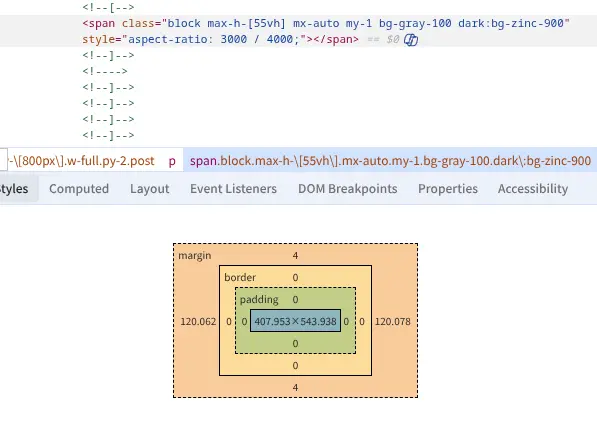
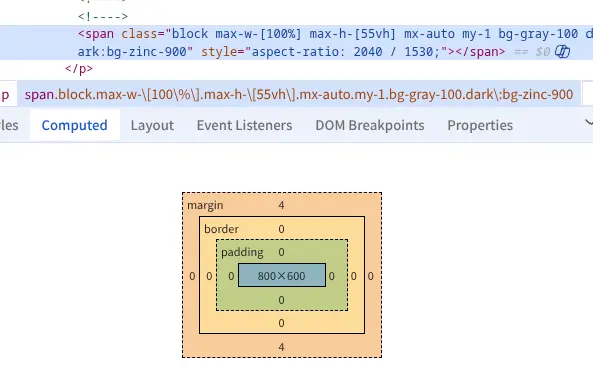
Edit post

diff --git a/markdown/2026/01-18-en-apply-width-height-html-img-element-sveltekit.md b/markdown/2026/01-18-en-apply-width-height-html-img-element-sveltekit.md
@@ -11,7 +11,7 @@ author:
 I applied `width` and `height` HTML attributes on `img` elements in my blog
 which is built with Sveltekit.
 This helped prevent layout shifts where `img` elements' heights change upon
-images loading and other HTML elements in the same flow change their positions.
+images loading and other HTML elements in the same flow shift their positions.
 
 # Layout Shift in My Blog
 
@@ -23,7 +23,7 @@ images loading and other HTML elements in the same flow change their positions.
 Usually, before images load, if there is no information provided about
 how big the images are, browsers render them as big as `0x0`.
 Same goes with my blog; the images' heights increase from 0 to non-zero,
-thus impacting other HTML elements in the same flow change their positions.
+thus impacting other HTML elements in the same flow, shifting their positions.
 
 It affects user experience in a negative way. To give a simple example,
 users feel annoyance if texts bounce off somewhere else while reading.
@@ -141,7 +141,7 @@ export const getImageSizes = async () => {
 };
 ```
 
-To add this, I implemented a simple cache system which is a basically a JSON file for efficiency.
+Also, for efficiency I implemented a simple cache system which is a basically a JSON file.
 If an image file has not changed since the last time it was cached, it will return the value from the cache.
 
 I had 135 image files of 46MB total. Before adding the cache system, it took about 40ms and
@@ -195,7 +195,7 @@ so you need to get the whole dimension data of hundreds of image files.
 # Flickering Even With the Attributes
 I had `width: 100%` style rule to `img` elements
 because I wanted them to be as big as their parent horizontally.
-At the same time, I did not want portrait images to be big so it fill the window vertically.
+At the same time, I did not want portrait images to be too big so they fill the window vertically.
 So I added `max-height: 55vh` style rule.
 ```css
 img {
